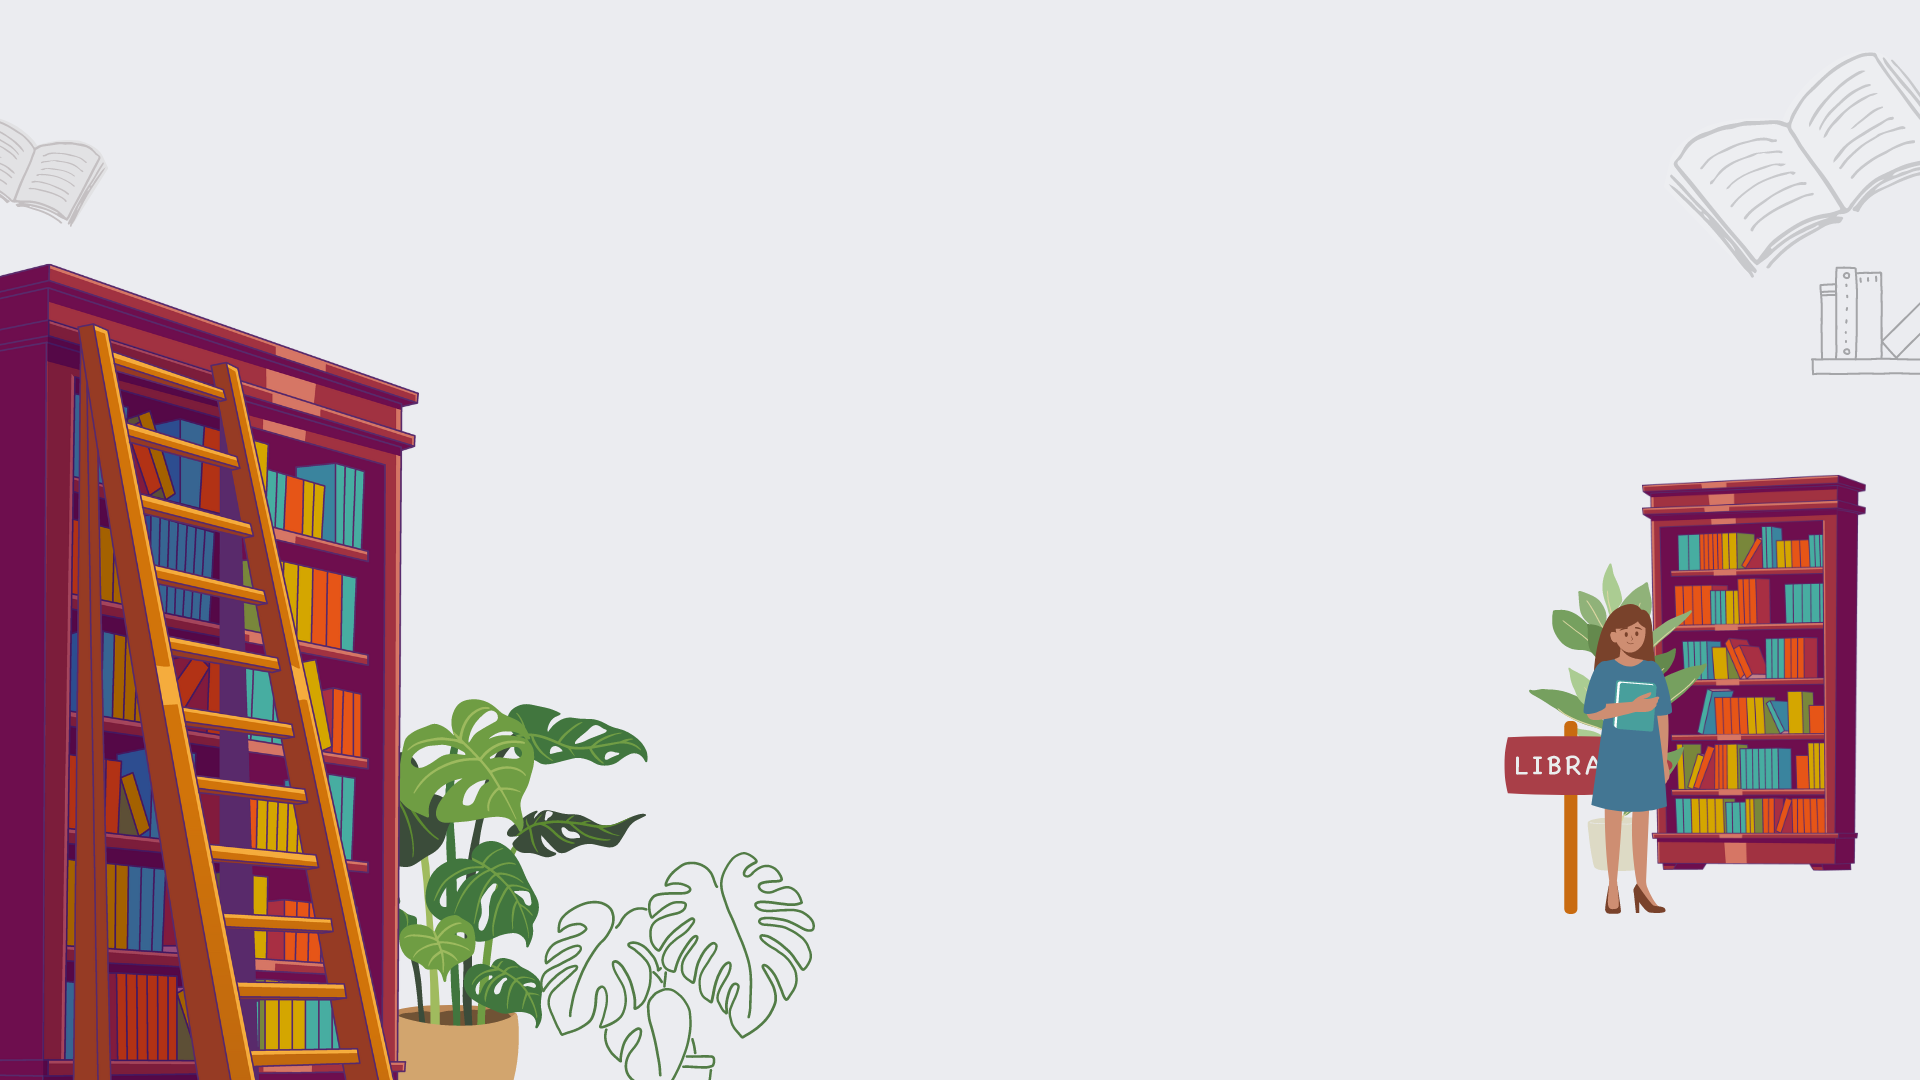
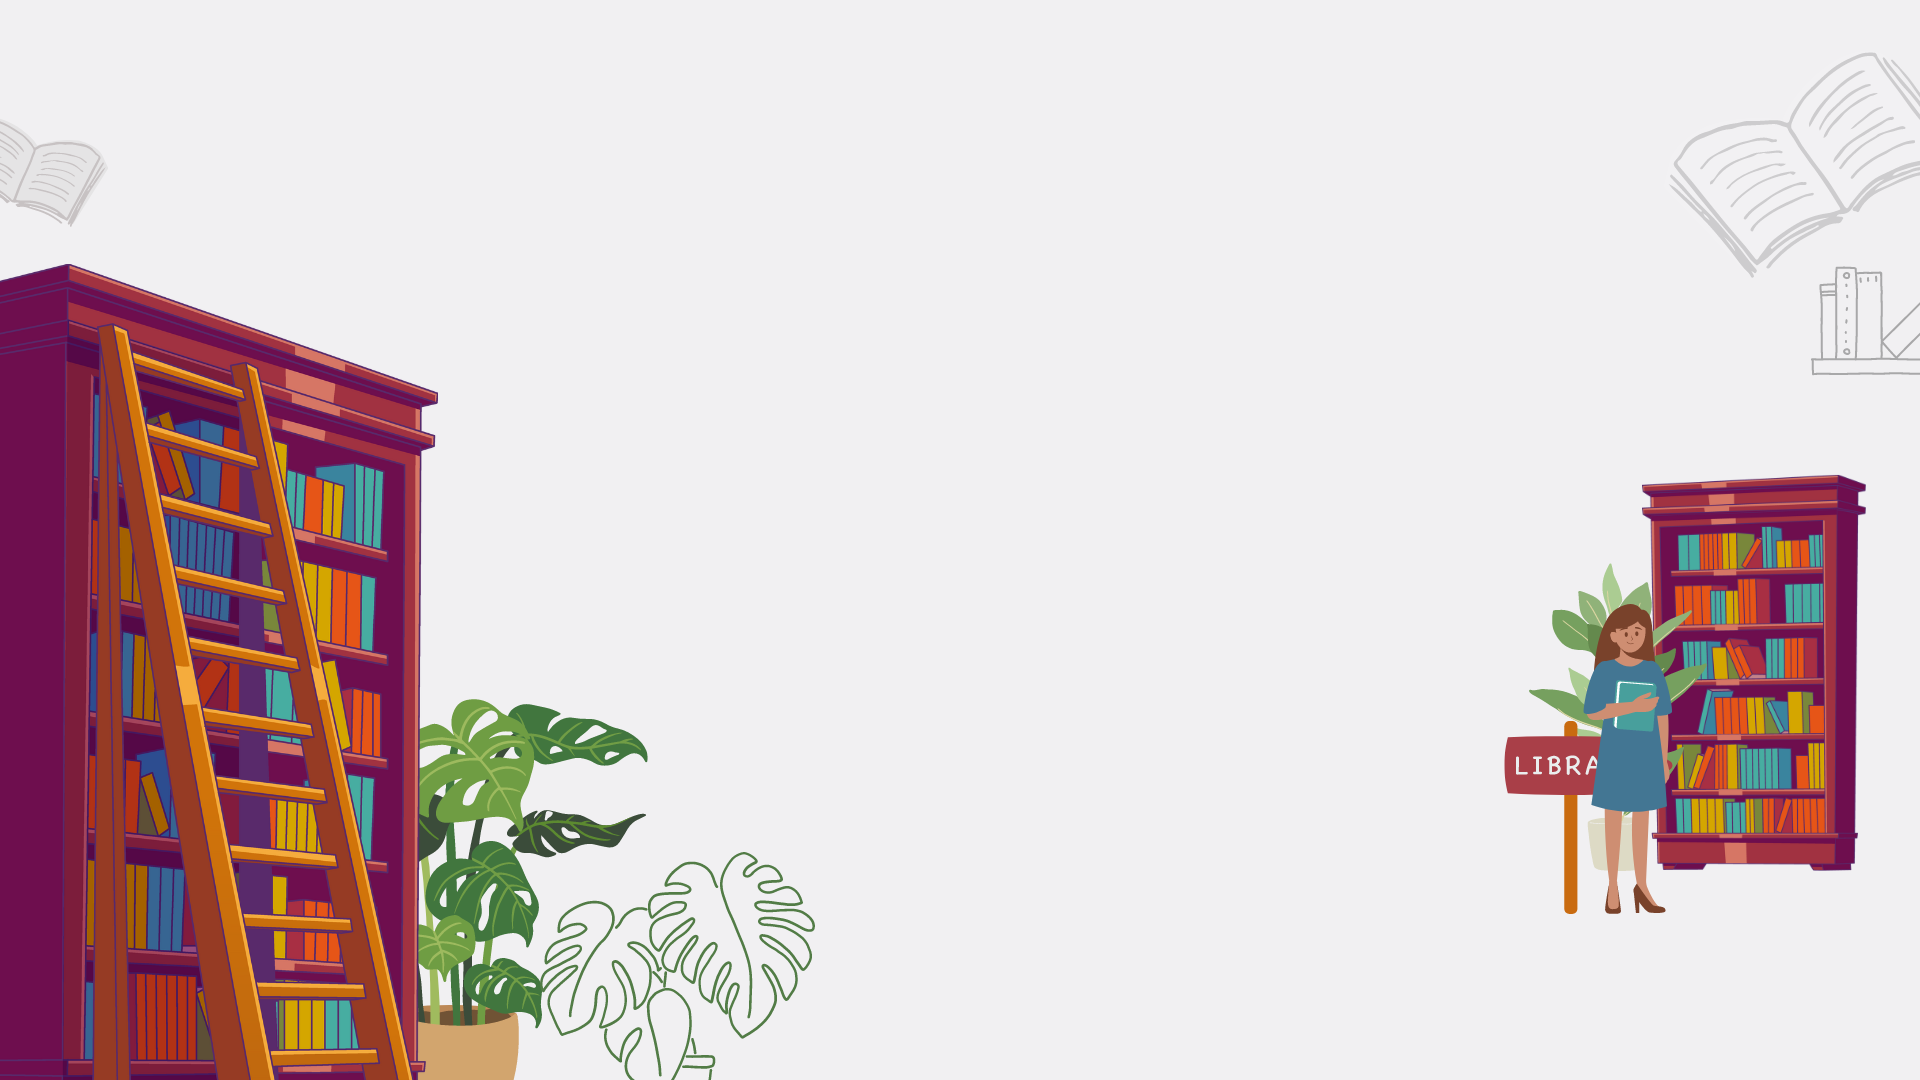
.

Changed region(s): [[0.0, 0.2444, 0.25, 1.0]]

diff --git a/src/assets/CSS/style.css b/src/assets/CSS/style.css
@@ -1,11 +1,21 @@
+html{
+    scroll-behavior: smooth;
+}
+
+
 body {
-    background-color: rgb(255, 255, 255);
+    background-color: #F1F0F2;
     font-family: "Roboto", sans-serif;
     font-weight: 500;
     font-style: normal;
+    display: flex;
+    flex-direction: column;
+    justify-content: center;
+    align-items: center;
 }
 
 #big_img {
+
         position: absolute;
         top: 0;
         left: 0;
@@ -13,22 +23,23 @@ body {
         height: 100%;
         object-fit: cover;
         z-index: 0;
-        filter: brightness(80%);
     }
  
 #container {
     width: 100%;
     height: 100vh;
-    position: fixed;
+    position: relative;
     top: 0;
     left: 0;
+    display: flex;
+    flex-direction: column;
     /* 
     background-color: rgba(29, 23, 23, 0.9);
     */
 }
 
 .navbar {
-    position: fixed;
+    position: absolute;
     top: 10px;
     right: 10px;
     z-index: 101;
@@ -36,7 +47,7 @@ body {
 }
 
 .circle {
-    color: #FF3131;
+    color: #088C37;
     width: 150px;
     position: relative;
     display: inline-block;
@@ -58,7 +69,7 @@ body {
     position: fixed;
     top: 0;
     left: 0;
-    background: #FF3131;
+    background: #3F3F40;
     z-index: 100;
     transition: .3s;
     transform: translateX(-100%);
@@ -69,7 +80,7 @@ body {
 }
 
 .menu {
-    color: white;
+    color: #F1F0F2;
     list-style: none;
     text-decoration: underline;
     padding: 60px;
@@ -80,7 +91,7 @@ body {
     margin: 0 auto;
     top: 20px;
     left: 20px;
-    position: relative;
+    position: absolute;
     
 }
 
@@ -91,18 +102,22 @@ body {
     position: relative;
     top: 250px;
     text-align: center;
+    
 }
 
 .title_box h1 {
     font-size: 60px;
     margin: 0;
     font-weight: 900;
+    color: #3F3F40;
+    
 }
 
 .title_box p {
-    font-size: 20px;
+    font-size: 22px;
     margin: 10px;
-    color: rgb(104, 101, 101);
+    color: #E0A629;
+    
 }
 
 #search_container {
@@ -110,6 +125,7 @@ body {
     position: relative;
     justify-content: center;
     top: 300px;
+    
 }
 
 #search_input{
@@ -118,59 +134,105 @@ body {
     outline: none;
     width: 400px;
     height: 50px;
-    color: #050505;
+    color: #000000;
     font-size: 20px;
     text-align: center;
 }
 
-.info_container{
-    color: rgb(0, 0, 0);
-    top: 250px;
-    position: relative;
-    display: flex;
-    column-gap: 10px;
-    align-items: flex-start;
-    height: 350px;
-    padding: 20px;
-    width: 700px;
+#search_input:focus {
+    border: 2px solid #088C37;
+    box-shadow: 0px 0px 15px 0px;
+    transition: 0.2s;
 }
 
-.infobox1{
-    background-color: rgb(255, 255, 255);
-    flex: 1;
-    height: 300px;
-    border-radius: 5%;
-    padding: 10px;
-}
-
-.infobox1 h1{
-    color: rgb(230, 42, 42);
+.title_results h2 {
     font-size: 50px;
-    margin: 0;
+    font-family: "Roboto", sans-serif;
     font-weight: 900;
+    color: #3F3F40;
 }
 
-.infobox1 p{
-    font-size: 20px;
-    font-weight: 600;
-    margin: 0;
+#results {
+    margin-top: 30px;
+    display: flex;
+    justify-content: space-around;
+    flex-wrap: wrap;
+    column-gap: 10em;
+    row-gap: 8em;
+    width: 70%;
+    background-color: #fff;
+    padding: 80px;
 }
 
-.infobox2{
-    background-color: rgb(255, 0, 0);
-    color: white;
-    flex: 0 0 25%;
-    align-self: flex-start;
-    height: 100px;
-    border-radius: 10%;
-    padding: 10px;
-    font-size: 20px;
-    font-weight: 600;
-    margin: 0;
+.book {
+    width: 400px;
+    height: 500px;
+    display: flex;
+    justify-content: space-around;
+    align-items: center;
+    overflow: hidden;
+    cursor: pointer;
+    box-shadow: 0px 0px 20px 0px #686868;
+    border: 2px solid #3F3F40;
+    border-radius: 2%;
+    text-align: center;
+    filter: brightness(70%);
+}
+
+.book img{
+    width: 100%;
+    height: 100%;
+    transition: all 0.3s ease-in-out;
+}
+
+.book h2 {
+    position: absolute;
+    font-size: 1.5rem;
+    color: #D9A404;
+    z-index: 10;
+    transition: all 0.3s ease-in-out;
+    width: 350px;
+}
+
+.book p {
+    position: absolute;
+    font-size: 1rem;
+    color: #b38602;
+    z-index: 10;
+    transition: all 0.3s ease-in-out;
+    width: 300px;
+    margin-top: 90px;
 }
 
 @media screen and (max-width: 768px){
-    #title_blur {
-        width: 400px;
-        margin-top: 40px;
-    }}
+    .title_box h1 {
+        font-size: 30px;
+    }
+
+    .title_box {
+        top: 400px;
+    }
+
+    .title_box p {
+        font-size: 15px;
+    }
+
+    #logo {
+        width: 150px;
+    }
+
+    .circle {
+        width: 100px;
+    }
+
+    #big_img {
+        position: fixed;
+    }
+
+    body {
+        background-color: #c9cdd1;
+    }
+
+
+
+    }

diff --git a/src/index.js b/src/index.js
@@ -4,3 +4,88 @@ $(document).ready(function(){
     });
 });
 
+const bigImg = document.getElementById('big_img');
+
+function setBackgroundImage() {
+    const windowWidth = window.innerWidth;
+    if (windowWidth <= 767) {
+        document.querySelector('#big_img').src = "assets/IMG/sfondosmarthphone.png"
+    } else {
+        document.querySelector('#big_img').src = "assets/IMG/sfondo1.png"
+    }
+};
+
+window.addEventListener('load', setBackgroundImage);
+window.addEventListener('resize', setBackgroundImage);
+
+function searchBooks(event) {
+    if (event.key === "Enter") {
+        const searchQuery = document.getElementById('search_input').value;
+        const apiUrl = `https://openlibrary.org/search.json?q=${searchQuery}&limit=4`;
+
+        // Effettua una richiesta AJAX alle API di Open Library
+        $.ajax({
+            url: apiUrl,
+            method: 'GET',
+            success: function(response) {
+                // Rimuovi eventuali risultati precedenti
+                const resultsContainer = document.getElementById('results');
+                resultsContainer.innerHTML = '';
+
+                // Elabora la risposta
+                const books = response.docs;
+                books.forEach(book => {
+                    // Crea un elemento <div> per ogni libro
+                    const bookDiv = document.createElement('div');
+                    bookDiv.classList.add('book');
+
+                    // Crea un elemento <h2> per il titolo del libro
+                    const titleElement = document.createElement('h2');
+                    titleElement.textContent = book.title;
+                    bookDiv.appendChild(titleElement);
+
+                    // Crea un elemento <p> per l'autore del libro
+                    const authorElement = document.createElement('p');
+                    authorElement.textContent = `Author: ${book.author_name ? book.author_name.join(', ') : 'Unknown'}`;
+                    bookDiv.appendChild(authorElement);
+
+                    if (book.cover_i) {
+                        const coverUrl = `https://covers.openlibrary.org/b/id/${book.cover_i}-M.jpg`;
+                        const coverImg = document.createElement('img');
+                        coverImg.src = coverUrl;
+                        bookDiv.appendChild(coverImg);
+                    }
+
+                    // Aggiungi il libro all'elemento dei risultati
+                    resultsContainer.appendChild(bookDiv);
+
+                    $(document).on('mouseenter', '.book', function() {
+                        $(this).find('img').css({
+                            transform: 'scale(1.1)',
+                            filter: 'brightness(0.7)'
+                        });
+                        $(this).find('h2, p').css({
+                            opacity: 1
+                        });
+                    }).on('mouseleave', '.book', function() {
+                        $(this).find('img').css({
+                            transform: 'scale(1)',
+                            filter: 'brightness(1)'
+                        });
+                        $(this).find('h2, p').css({
+                            opacity: 0
+                        });
+                    });
+                });
+
+                
+            },
+            error: function(error) {
+                console.log("Si è verificato un errore:", error);
+            }
+        });
+    }
+}
+
+// Aggiungi il listener per l'evento "keypress" all'input di ricerca
+document.getElementById('search_input').addEventListener('keypress', searchBooks);

diff --git a/src/index.html b/src/index.html
@@ -7,10 +7,10 @@
     <link rel="preconnect" href="https://fonts.googleapis.com">
     <link rel="preconnect" href="https://fonts.gstatic.com" crossorigin>
     <link href="https://fonts.googleapis.com/css2?family=Roboto:ital,wght@0,100;0,300;0,400;0,500;0,700;0,900;1,100;1,300;1,400;1,500;1,700;1,900&display=swap" rel="stylesheet">
-    <title>Libreria DP</title>
+    <title>Pages from the past</title>
 </head>
 <body>
-    <img id="big_img" src="assets/IMG/sfondo1.png" alt="backgroudnd image">
+    <img id="big_img" src="assets/IMG/sfondo1.png" alt="background">
     <section id="container">
         <div class="navbar">
             <img class="circle" src="assets/IMG/cerchio.png" alt="circle">
@@ -28,24 +28,16 @@
         </div>
         <div class="title_box">
             <h1>Explore Worlds<br> Between the Pages.</h1>
-            <p>libri in quantita porco dio</p>
+            <p>Navigate Books Through Virtual Pages</p>
         </div>
         <div id="search_container">
             <input type="text" id="search_input" placeholder="what do you want to read?">
         </div>
-        <!--
-        <div class="info_container">
-            <div class="infobox1">
-                <h1>COMANDI</h1>
-                <p>Lorem ipsum dolor sit amet consectetur adipisicing elit. Esse velit, exercitationem ullam nulla, provident repellendus quae sapiente harum qui, laudantium voluptatum. Eos iste tempore nam nisi eveniet quidem molestiae! Veritatis?</p>
-            </div>
-            <div class="infobox2">
-                <p>ciao sono davide</p>
-            </div>
-
-        </div>
-        -->
     </section>
+    <div class="title_results">
+        <h2>Book Catalog</h2>
+    </div>
+    <div id="results"></div>
 
     <script src="https://ajax.googleapis.com/ajax/libs/jquery/3.6.0/jquery.min.js"></script>
     <script src="index.js"></script>
